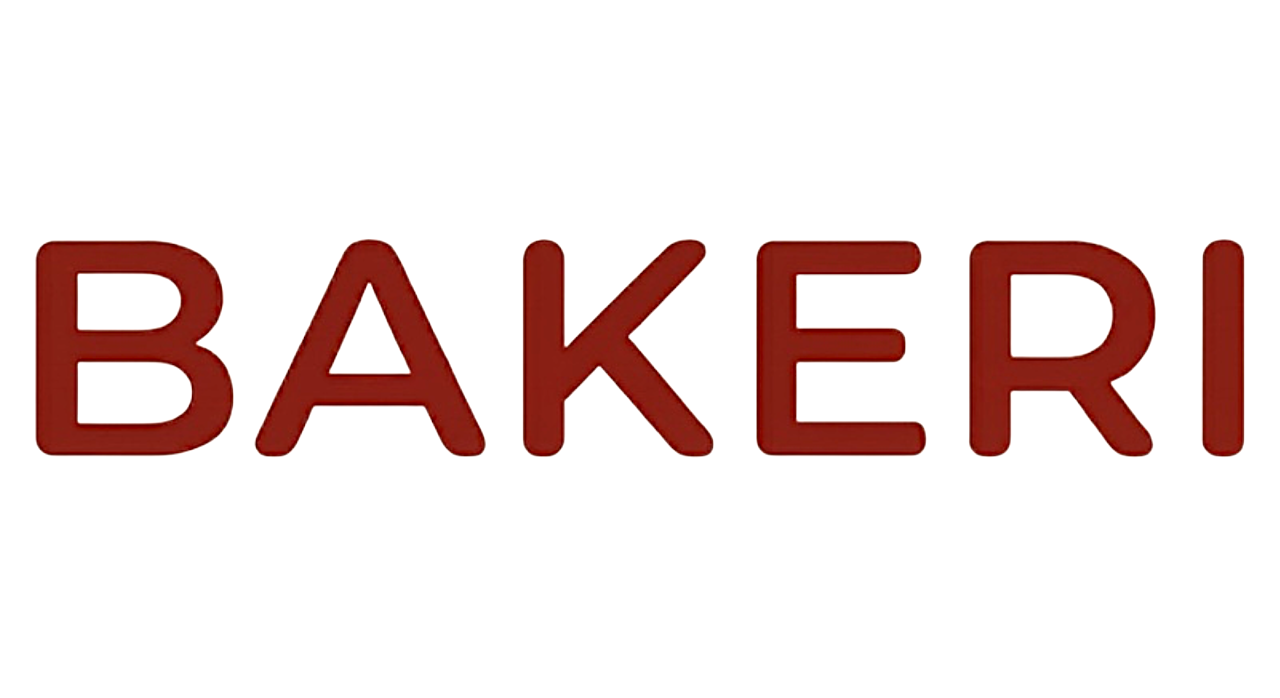
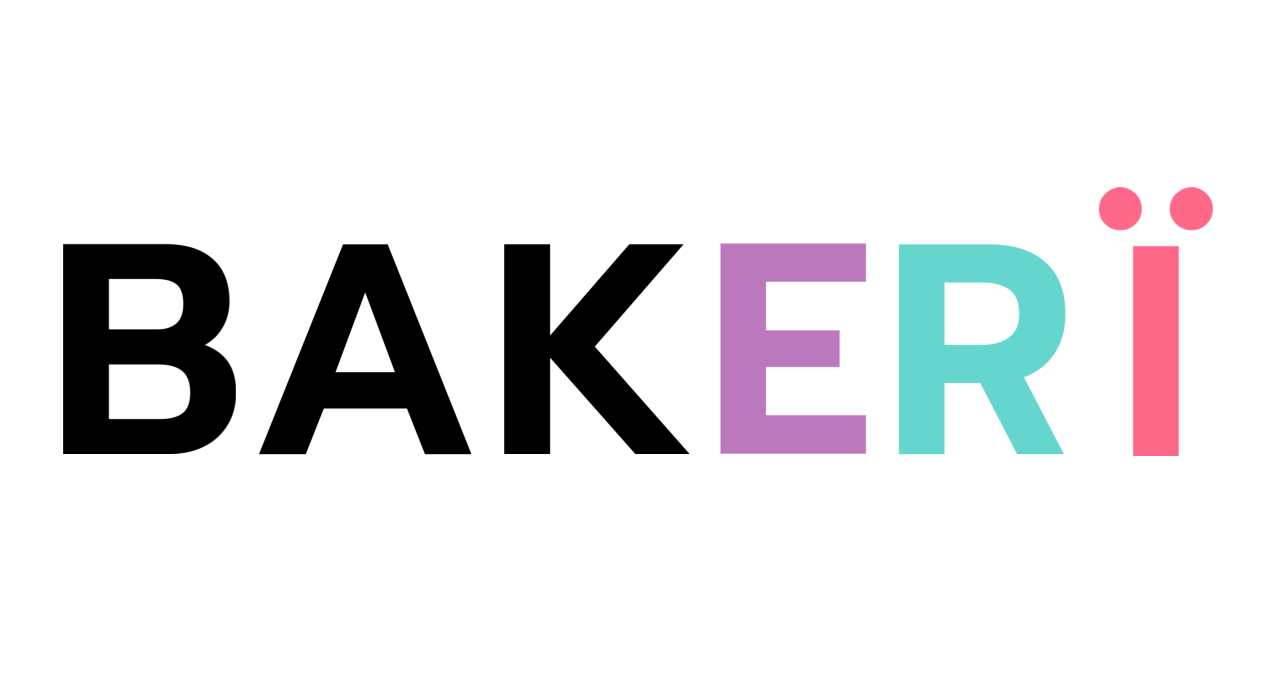
Add wordmark image and slug-based baker profile URLs
- Replace text wordmark with wordmark.png (app asset, inverted in dark mode)
- Support ?slug=tillys-sugar-cookies in addition to ?id=UUID
- Slug lookup uses get_baker_web_profile_by_slug RPC
- Old ?id= links continue to work unchanged

Changed region(s): [[0.0, 0.2708, 1.0, 0.6619]]

diff --git a/baker/index.html b/baker/index.html
@@ -42,13 +42,12 @@
 
     /* ── Wordmark ── */
     .wordmark {
-      font-family: var(--display);
-      font-size: 1.4rem;
-      font-weight: 700;
-      color: var(--ink);
+      height: 32px;
+      width: auto;
       margin-bottom: 24px;
-      letter-spacing: 0.02em;
+      display: block;
     }
+    @media (prefers-color-scheme: dark) { .wordmark { filter: invert(1); } }
 
     /* ── Profile card ── */
     .profile-card {
@@ -320,7 +319,7 @@
 </head>
 <body>
 
-<div class="wordmark">Bakeri</div>
+<img class="wordmark" src="../wordmark.png" alt="Bakeri" />
 
 <!-- Profile card (populated by JS) -->
 <div class="profile-card" id="profile-card">
@@ -360,16 +359,18 @@
   const ANON_KEY     = 'eyJhbGciOiJIUzI1NiIsInR5cCI6IkpXVCJ9.eyJpc3MiOiJzdXBhYmFzZSIsInJlZiI6ImFxaGVianhheW52dHZ1cndlZHJsIiwicm9sZSI6ImFub24iLCJpYXQiOjE3NzU4MTgwOTMsImV4cCI6MjA5MTM5NDA5M30.XgkgwDM5nyrmoJtNNNRDiBQePcBFGew13TbK76y_aOI';
   const STORAGE_URL  = SUPABASE_URL + '/storage/v1/object/public';
 
-  const params  = new URLSearchParams(window.location.search);
-  const bakerID = (params.get('id') || '').trim();
+  const params   = new URLSearchParams(window.location.search);
+  const slug     = (params.get('slug') || '').trim().toLowerCase();
+  const bakerID  = (params.get('id')   || '').trim();
 
-  if (!bakerID) {
+  if (!slug && !bakerID) {
     showNotFound('No baker specified', 'This link appears to be invalid.');
     return;
   }
 
-  // Deep link — uses UUID so the app navigates directly without a handle lookup
-  const deepLink  = 'bakeri://baker/' + encodeURIComponent(bakerID);
+  // Deep link — slug preferred (human-readable); UUID as fallback
+  const deepLinkSegment = slug || bakerID;
+  const deepLink  = 'bakeri://baker/' + encodeURIComponent(deepLinkSegment);
   const openBtn   = document.getElementById('open-btn');
   const statusMsg = document.getElementById('status-msg');
 
@@ -390,19 +391,22 @@
     }, 1800);
   }
 
-  // Fetch baker data
-  fetch(SUPABASE_URL + '/rest/v1/rpc/get_baker_web_profile_by_id', {
+  // Fetch baker data — slug lookup preferred, UUID fallback
+  var rpcName = slug ? 'get_baker_web_profile_by_slug' : 'get_baker_web_profile_by_id';
+  var rpcBody = slug ? { p_slug: slug } : { p_user_id: bakerID };
+
+  fetch(SUPABASE_URL + '/rest/v1/rpc/' + rpcName, {
     method: 'POST',
     headers: {
       'Content-Type': 'application/json',
       'apikey': ANON_KEY
     },
-    body: JSON.stringify({ p_user_id: bakerID })
+    body: JSON.stringify(rpcBody)
   })
   .then(function (r) { return r.json(); })
   .then(function (data) {
     if (!data || !data.profile) {
-      showNotFound('Baker not found', 'No baker with this ID exists on Bakeri.');
+      showNotFound('Baker not found', 'No baker found at this link.');
       return;
     }
     renderProfile(data.profile, data.listings || []);
